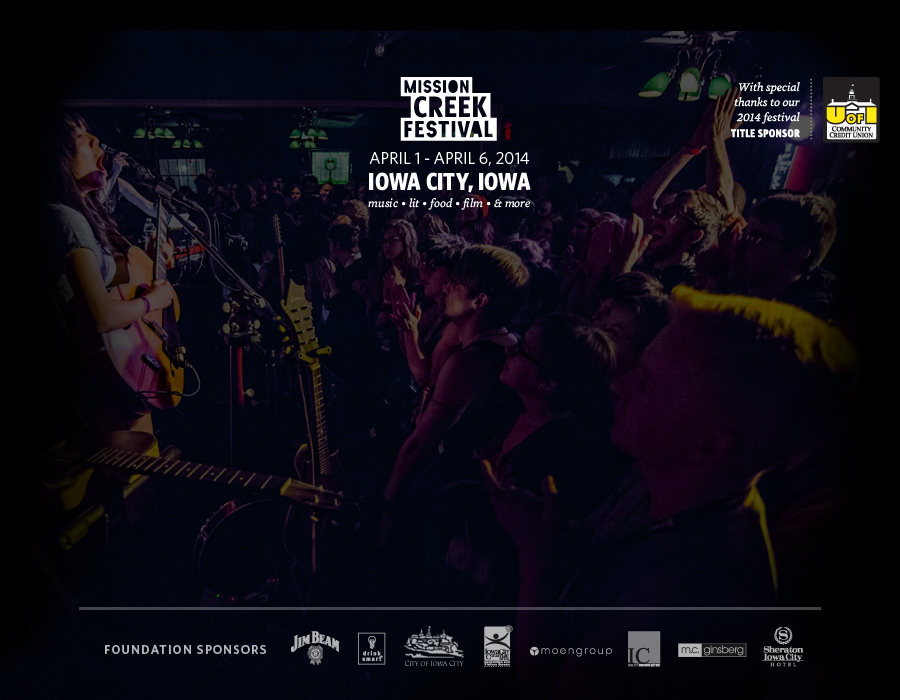
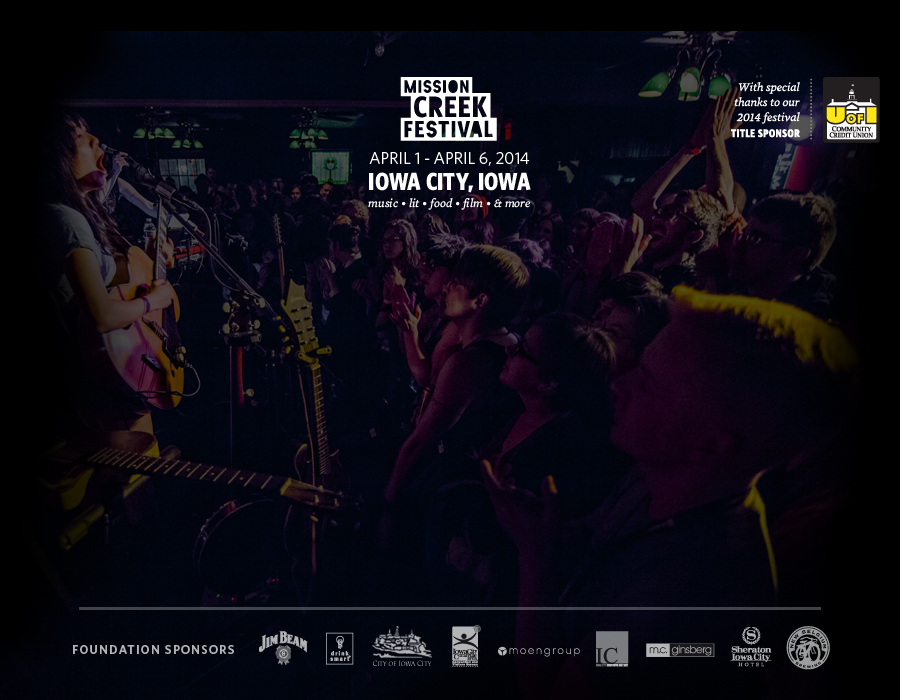
Updated sponsors

Changed region(s): [[0.0933, 0.87, 0.9333, 0.96]]

diff --git a/public/splash.html b/public/splash.html
@@ -74,6 +74,7 @@
       <a id="ic_down" target='_other' class='outbound' href="http://downtowniowacity.com"></a>
       <a id="mcgins" target='_other' class='outbound' href="http://mcginsberg.com"></a>
       <a id="sheraton" target='_other' class='outbound' href="http://www.sheratoniowacity.com/"></a>
+      <a id="new_belgium" target='_other' class='outbound' href="http://www.newbelgium.com/"></a>
     </div>
     <div class="info_nav">
         <a class="general_nav" href="#"></a>

diff --git a/public/2014_css/style.css b/public/2014_css/style.css
@@ -50,7 +50,7 @@ body
   position: relative;
   display: inline-block;
   top: -620px;
-  left: 400px;
+  left: 300px;
   width: 144px;
   height: 61px;
 }
@@ -89,9 +89,9 @@ body
 {
   position: relative;
   height: 76px;
-  width: 540px;
+  width: 640px;
   bottom: 80px;
-  left: 490px;
+  left: 460px;
   display: inline-block;
 }
 .sponsors a
@@ -126,6 +126,10 @@ body
 #sheraton
 {
   width:55px;
+}
+#new_belgium
+{
+  width:80px;
 }
 .info_nav
 {
